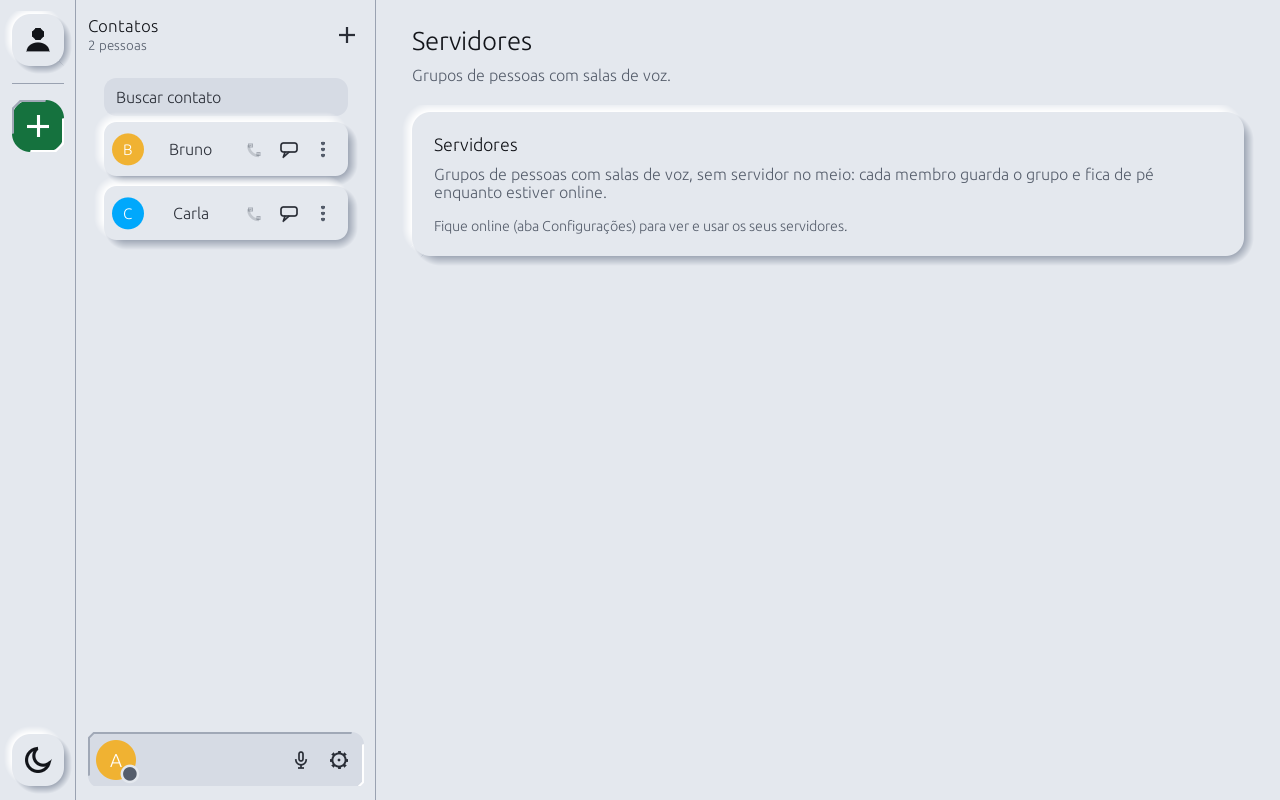
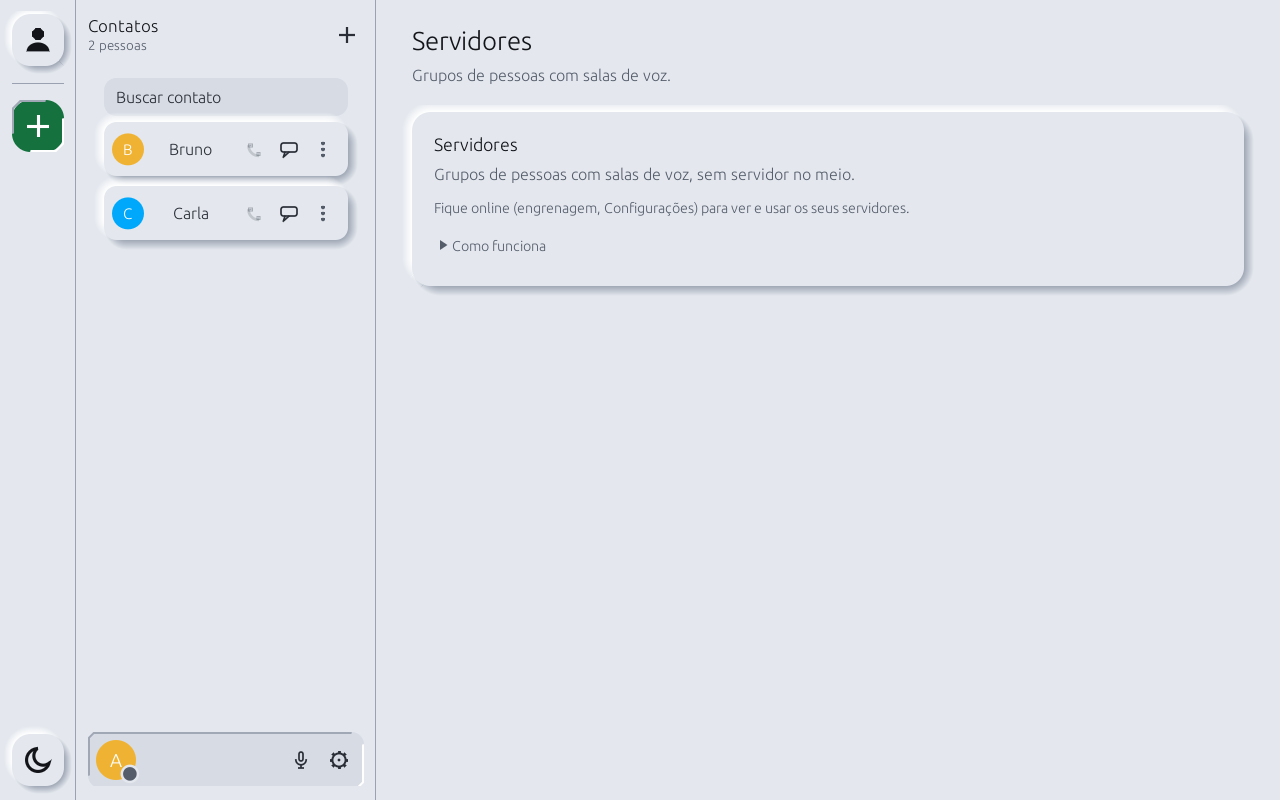
GUI: rádio, caixa e slider visíveis, botão desligado igual nos dois temas, textos vazios enxutos
Auditoria das telas em docs/telas: o rádio desmarcado e o checkbox de Dispositivos sumiam na base, o slider não tinha trilho, o botão cheio desligado quase não apagava no escuro, e as telas vazias de Chamada e Servidores tinham parágrafos fixos (um citava o ícone errado). Helpers radio_pick e slider em theme.rs, disabled_fill_with com teste, barra de rolagem mais fina e afastada, PNGs regenerados.

Changed region(s): [[0.3438, 0.2188, 1.0, 0.375], [0.75, 0.2188, 0.7812, 0.25]]

diff --git a/examples/gui/theme.rs b/examples/gui/theme.rs
@@ -187,7 +187,11 @@ pub(crate) fn apply(ctx: &egui::Context) {
         s.spacing.slider_width = 260.0;
         s.spacing.combo_width = 280.0;
         s.spacing.text_edit_width = 320.0;
-        s.spacing.scroll.bar_width = 10.0;
+        // Barra mais fina e afastada do cartão: com 10 px colada nele (inner 4, outer 0) ela parecia parte da moldura. A
+        // cor da alça é a do texto (o egui não deixa trocar), então o contraste fica alto de propósito.
+        s.spacing.scroll.bar_width = 8.0;
+        s.spacing.scroll.bar_inner_margin = 8.0;
+        s.spacing.scroll.bar_outer_margin = 4.0;
         s.spacing.scroll.floating = false;
     });
 }
@@ -279,6 +283,13 @@ fn soft_button(ui: &mut Ui, enabled: bool, text: RichText, fill: Color32, min: e
     reply
 }
 
+/// Preenchimento de um botão desligado: a base com só um sopro da cor da ação. `gamma_multiply` mexia na opacidade, e
+/// por isso o mesmo botão ficava quase vivo sobre a base escura e apagado sobre a clara; misturar com a base apaga igual
+/// nos dois temas, e o texto `muted` segue legível (≥ 3:1, ver o teste).
+fn disabled_fill_with(p: &Palette, fill: Color32) -> Color32 {
+    if fill == p.bg { fill } else { p.bg.lerp_to_gamma(fill, 0.2) }
+}
+
 /// A superfície do botão macio (relevo, hover, apertado, desligado) sem o conteúdo. Devolve a resposta, o
 /// retângulo e se está apertado, para quem desenha o rótulo ou o ícone por cima.
 fn soft_surface(ui: &mut Ui, enabled: bool, fill: Color32, size: egui::Vec2) -> (egui::Response, Rect, bool) {
@@ -290,7 +301,7 @@ fn soft_surface(ui: &mut Ui, enabled: bool, fill: Color32, size: egui::Vec2) -> 
     let pressed = enabled && reply.is_pointer_button_down_on();
     if ui.is_rect_visible(rect) {
         let painter = ui.painter();
-        let surface = if !enabled { fill.gamma_multiply(0.55) } else if reply.hovered() && !pressed { hovered_fill(fill) } else { fill };
+        let surface = if !enabled { disabled_fill_with(pal(), fill) } else if reply.hovered() && !pressed { hovered_fill(fill) } else { fill };
         if !enabled {
             painter.rect_filled(rect, CornerRadius::same(R_BUTTON), surface);
         } else if pressed {
@@ -313,7 +324,7 @@ pub(crate) fn big_button(ui: &mut Ui, text: &str, fill: Color32) -> egui::Respon
 pub(crate) fn details(ui: &mut Ui, title: &str, text: &str) {
     // O id vem do texto: dois blocos "Como funciona" no mesmo nível (um por cartão) compartilhariam o do título e
     // abririam e fechariam juntos.
-    egui::CollapsingHeader::new(RichText::new(title).size(13.0).color(pal().muted)).id_salt(text).icon(chevron).show(ui, |ui| note(ui, text));
+    egui::CollapsingHeader::new(RichText::new(title).size(14.0).color(pal().muted)).id_salt(text).icon(chevron).show(ui, |ui| note(ui, text));
 }
 
 /// Seta do bloco recolhido, desenhada: aponta para a direita fechada e gira para baixo ao abrir (`openness` de 0 a 1).
@@ -324,7 +335,7 @@ fn chevron(ui: &mut Ui, openness: f32, response: &egui::Response) {
     let a = openness * std::f32::consts::FRAC_PI_2;
     let (sin, cos) = a.sin_cos();
     let turn = |x: f32, y: f32| c + vec2(x * cos - y * sin, x * sin + y * cos);
-    ui.painter().add(egui::Shape::convex_polygon(vec![turn(-2.5, -4.0), turn(3.5, 0.0), turn(-2.5, 4.0)], ink, Stroke::NONE));
+    ui.painter().add(egui::Shape::convex_polygon(vec![turn(-3.0, -5.0), turn(4.5, 0.0), turn(-3.0, 5.0)], ink, Stroke::NONE));
 }
 
 /// Marca discreta ao lado de um campo que só vale quando o programa abrir de novo (relógio, com a explicação no
@@ -397,23 +408,43 @@ pub(crate) fn phone_button(ui: &mut Ui, enabled: bool, tip: &str, fill: Color32)
     reply.on_hover_text(tip)
 }
 
-/// Caixa de marcar com a caixinha visível: no tema neomórfico o `checkbox` padrão some no fundo (mesma cor
-/// base, sem contorno). Aqui a caixinha fica afundada (`pal().deep`) e com contorno `pal().muted`.
+/// Controles do egui (caixa, rádio, trilho do slider) com o corpo afundado e o contorno visível: no tema neomórfico o
+/// padrão some no fundo (mesma cor base, sem contorno). O corpo fica afundado (`pal().deep`) e o contorno `pal().muted`;
+/// sem isso uma opção de rádio desmarcada não tem círculo e o estado só aparece num ponto.
+fn sunken_controls<R>(ui: &mut Ui, add: impl FnOnce(&mut Ui) -> R) -> R {
+    ui.scope(|ui| {
+        let w = &mut ui.visuals_mut().widgets;
+        w.inactive.bg_fill = pal().deep;
+        w.inactive.bg_stroke = Stroke::new(1.5_f32, pal().muted);
+        w.hovered.bg_fill = pal().deep;
+        w.hovered.bg_stroke = Stroke::new(1.5_f32, pal().text);
+        add(ui)
+    })
+    .inner
+}
+
+/// Extensões de `Ui` para os controles de marcar e arrastar com a aparência do tema. As telas usam estas, não as do
+/// egui direto (`checkbox`, `radio_value`, `Slider`), que somem no fundo.
 pub(crate) trait CheckExt {
+    /// Caixa de marcar com a caixinha visível.
     fn check(&mut self, checked: &mut bool, text: impl Into<egui::WidgetText>) -> egui::Response;
+    /// Opção de rádio com o círculo visível, marcada quando `current == alt`.
+    fn radio_pick<V: PartialEq>(&mut self, current: &mut V, alt: V, text: impl Into<egui::WidgetText>) -> egui::Response;
+    /// Slider com o trilho afundado e preenchido com o acento até o botão: o trilho mostra o intervalo e a posição.
+    fn slider(&mut self, slider: egui::Slider<'_>) -> egui::Response;
 }
 
 impl CheckExt for egui::Ui {
     fn check(&mut self, checked: &mut bool, text: impl Into<egui::WidgetText>) -> egui::Response {
-        self.scope(|ui| {
-            let w = &mut ui.visuals_mut().widgets;
-            w.inactive.bg_fill = pal().deep;
-            w.inactive.bg_stroke = Stroke::new(1.5_f32, pal().muted);
-            w.hovered.bg_fill = pal().deep;
-            w.hovered.bg_stroke = Stroke::new(1.5_f32, pal().text);
-            ui.checkbox(checked, text)
-        })
-        .inner
+        sunken_controls(self, |ui| ui.checkbox(checked, text))
+    }
+
+    fn radio_pick<V: PartialEq>(&mut self, current: &mut V, alt: V, text: impl Into<egui::WidgetText>) -> egui::Response {
+        sunken_controls(self, |ui| ui.radio_value(current, alt, text))
+    }
+
+    fn slider(&mut self, slider: egui::Slider<'_>) -> egui::Response {
+        sunken_controls(self, |ui| ui.add(slider.trailing_fill(true)))
     }
 }
 
@@ -1433,6 +1464,20 @@ mod tests {
                     assert!(r >= 4.5, "tema {name}: branco sobre {what} tem contraste {r:.2} (< 4,5)");
                 }
             }
+        }
+    }
+
+    #[test]
+    fn disabled_filled_buttons_fade_into_the_base_in_both_themes() {
+        for (name, p) in [("escuro", &DARK_PALETTE), ("claro", &LIGHT_PALETTE)] {
+            for (what, fill) in [("acento", BLURPLE), ("verde", p.green), ("vermelho", p.red)] {
+                let off = disabled_fill_with(p, fill);
+                let r = contrast(p.muted, off);
+                assert!(r >= 3.0, "tema {name}: texto do botão {what} desligado tem contraste {r:.2} (< 3)");
+                // Perto da base (o botão não parece ativo) e longe da cor cheia.
+                assert!(contrast(off, p.bg) < contrast(fill, p.bg), "tema {name}: botão {what} desligado não apagou");
+            }
+            assert_eq!(disabled_fill_with(p, p.bg), p.bg);
         }
     }
 

diff --git a/examples/gui/media.rs b/examples/gui/media.rs
@@ -26,11 +26,11 @@ impl App {
                 ui.horizontal(|ui| {
                     ui.label("Priorizar:");
                     let mut changed = ui
-                        .radio_value(&mut self.form.screen_sharp, false, "Fluidez")
+                        .radio_pick(&mut self.form.screen_sharp, false, "Fluidez")
                         .on_hover_text("Mais quadros por segundo (o dobro): bom para jogo e vídeo. A imagem fica um pouco mais grosseira quando se mexe.")
                         .changed();
                     changed |= ui
-                        .radio_value(&mut self.form.screen_sharp, true, "Nitidez")
+                        .radio_pick(&mut self.form.screen_sharp, true, "Nitidez")
                         .on_hover_text("Metade dos quadros por segundo, cada um com o dobro de bits: bom para texto, código e slides. O movimento fica menos suave.")
                         .changed();
                     if changed {
@@ -67,7 +67,7 @@ impl App {
         split(ui, |ui, side| {
             if side == 0 {
                 card(ui, "Dispositivos", "", |ui| {
-                    ui.add_enabled(offline, egui::Checkbox::new(&mut self.form.use_audio, "Usar microfone e alto-falante"))
+                    ui.add_enabled_ui(offline, |ui| ui.check(&mut self.form.use_audio, "Usar microfone e alto-falante")).inner
                         .on_hover_text("Desmarcado, cada lado manda só um tom de teste. Vale ao ficar online.");
                     #[cfg(feature = "audio")]
                     devices_ui(ui, &mut self.form, &mut self.devs);
@@ -78,9 +78,9 @@ impl App {
                         a.muted.store(muted, Ordering::Relaxed);
                     }
                     ui.label("Volume do alto-falante");
-                    ui.add(egui::Slider::new(&mut p.volume, AudioPrefs::VOLUME));
+                    ui.slider(egui::Slider::new(&mut p.volume, AudioPrefs::VOLUME));
                     ui.label("Ganho do microfone");
-                    ui.add(egui::Slider::new(&mut p.mic_gain, AudioPrefs::MIC_GAIN));
+                    ui.slider(egui::Slider::new(&mut p.mic_gain, AudioPrefs::MIC_GAIN));
                     ui.label("Nível do microfone");
                     // Medidor: a linha marca o limiar de sensibilidade; o texto diz se a voz passa dele.
                     let meter = ui.add(
@@ -94,7 +94,7 @@ impl App {
                     let x = meter.rect.left() + meter.rect.width() * voice_meter(p.gate_db);
                     ui.painter().vline(x, meter.rect.y_range(), egui::Stroke::new(2.5_f32, pal().strong));
                     ui.label("Sensibilidade (limiar da voz)");
-                    ui.add(egui::Slider::new(&mut p.gate_db, AudioPrefs::GATE_DB).suffix(" dB"))
+                    ui.slider(egui::Slider::new(&mut p.gate_db, AudioPrefs::GATE_DB).suffix(" dB"))
                         .on_hover_text("A linha laranja no medidor. Quanto mais para a esquerda, mais sensível: sons baixos já contam como voz.");
                     if in_call || testing {
                         note(ui, "Fale e veja o medidor: a linha laranja deve ficar abaixo da sua voz e acima do ruído.");
@@ -128,7 +128,7 @@ impl App {
                         .on_hover_text("Quando o microfone fica abaixo do limiar, o som enviado é reduzido. Ajuste a sensibilidade até a linha ficar logo acima do ruído.");
                     ui.add_enabled_ui(p.gate, |ui| {
                         ui.label("Redução do ruído");
-                        ui.add(egui::Slider::new(&mut p.gate_depth_db, AudioPrefs::GATE_DEPTH_DB).suffix(" dB"));
+                        ui.slider(egui::Slider::new(&mut p.gate_depth_db, AudioPrefs::GATE_DEPTH_DB).suffix(" dB"));
                     });
                     ui.check(&mut p.high_pass, "Cortar graves (ventilador, mesa, sopro)");
                     ui.check(&mut p.agc, "Volume automático (nivela voz baixa e alta)")

diff --git a/examples/gui/servers.rs b/examples/gui/servers.rs
@@ -87,8 +87,9 @@ impl App {
     pub(crate) fn servers_tab(&mut self, ui: &mut egui::Ui, offline: bool) {
         let hub = self.shared.servers.lock_unpoisoned().clone();
         let Some(hub) = hub.filter(|_| !offline) else {
-            card(ui, "Servidores", "Grupos de pessoas com salas de voz, sem servidor no meio: cada membro guarda o grupo e fica de pé enquanto estiver online.", |ui| {
-                note(ui, "Fique online (aba Configurações) para ver e usar os seus servidores.");
+            card(ui, "Servidores", "Grupos de pessoas com salas de voz, sem servidor no meio.", |ui| {
+                note(ui, "Fique online (engrenagem, Configurações) para ver e usar os seus servidores.");
+                details(ui, "Como funciona", "Cada membro guarda o grupo e o mantém de pé enquanto estiver online; não há servidor que o hospede.");
             });
             return;
         };

diff --git a/examples/gui/call.rs b/examples/gui/call.rs
@@ -37,9 +37,7 @@ impl App {
                 return;
             }
             self.dial_card(ui, offline, busy);
-            card(ui, "Nenhuma chamada em andamento", "Quando você ligar ou atender, ela aparece aqui, com a tela compartilhada.", |ui| {
-                note(ui, "Para ligar a um contato, use o botão de ligar ao lado dele na lista de contatos (ícone de pessoa, no trilho da esquerda).");
-            });
+            card(ui, "Nenhuma chamada em andamento", "Ligue pelo telefone ao lado do contato; a chamada e a tela compartilhada aparecem aqui.", |_| {});
             return;
         }
         let incoming = *self.shared.incoming.lock_unpoisoned();

diff --git a/docs/GUI.md b/docs/GUI.md
@@ -108,7 +108,7 @@ As seções da janela (trilho, salas, centro, membros) são separadas por uma li
 
 **Foco do teclado.** Todo controle desenhado à mão (três pontos, lixeira, sair, desligar, `+`, X, lupa, monitor, cartão fantasma, alternador de membros, botões macios) mostra o mesmo aro, `focus_ring` em `theme.rs`, na cor `Palette::focus`: o acento claro no escuro e o acento no claro, ambos com mais de 3:1 sobre a base, o fundo afundado e o hover (teste em `theme.rs`). Parar de assistir tem ícone próprio, o monitor riscado (`stop_watching_button`), e cada saída tem o seu ícone: fone vermelho para desligar e recusar, porta para sair da sala, X para fechar.
 
-**Botões.** Todo botão tem nome acessível (`widget_info`), o de texto e o de ícone, igual à dica; testes em `theme.rs` conferem os dois. Os ícones sem moldura nascem de um helper só (`bare_button`): nome, dica, placa suave `Palette::hover` sob o ponteiro, afundo de 1 px ao apertar, aro de foco e mãozinha vêm juntos, então um botão novo não esquece nada. O botão macio desligado continua alcançável pelo Tab e mostra o motivo no hover (`why_off`); o de ícone dentro de um `Ui` desligado do egui não recebe Tab (limite do egui), e o motivo fica no hover. O texto do botão neutro (fundo da base: *Cancelar*, *Recusar*, *Desbloquear*, *Ficar offline*) usa a cor do texto do tema, e não branco, que sumia no tema claro (`ink_on`); branco fica só sobre o acento e os semânticos. Verde é só para ligar, atender e ficar online; as demais ações principais (*Criar*, *Aceitar*, *Entrar*, *Copiar*) usam o acento. Desligar e recusar são um botão vermelho em relevo com o fone branco, do tamanho do de atender: o vermelho do tema não passa de 3:1 sobre a base escura como ícone solto. A porta com seta sai da sala ou do servidor, e o X só fecha (conversa, tela cheia). Não há botão cru do egui na janela.
+**Botões.** Todo botão tem nome acessível (`widget_info`), o de texto e o de ícone, igual à dica; testes em `theme.rs` conferem os dois. Os ícones sem moldura nascem de um helper só (`bare_button`): nome, dica, placa suave `Palette::hover` sob o ponteiro, afundo de 1 px ao apertar, aro de foco e mãozinha vêm juntos, então um botão novo não esquece nada. O botão macio desligado continua alcançável pelo Tab e mostra o motivo no hover (`why_off`); o de ícone dentro de um `Ui` desligado do egui não recebe Tab (limite do egui), e o motivo fica no hover. O texto do botão neutro (fundo da base: *Cancelar*, *Recusar*, *Desbloquear*, *Ficar offline*) usa a cor do texto do tema, e não branco, que sumia no tema claro (`ink_on`); branco fica só sobre o acento e os semânticos. Verde é só para ligar, atender e ficar online; as demais ações principais (*Criar*, *Aceitar*, *Entrar*, *Copiar*) usam o acento. Desligar e recusar são um botão vermelho em relevo com o fone branco, do tamanho do de atender: o vermelho do tema não passa de 3:1 sobre a base escura como ícone solto. A porta com seta sai da sala ou do servidor, e o X só fecha (conversa, tela cheia). O botão cheio desligado (*Testar o microfone* offline, o telefone de ligar offline) mistura a cor da ação com a base (`disabled_fill_with`) e usa o texto `muted`, apagando igual nos dois temas; antes ele só diminuía a opacidade e ficava quase vivo no escuro. Não há botão cru do egui na janela. Caixa de marcar, opção de rádio e slider também não são os do egui: vêm de `check`, `radio_pick` e `slider` (`CheckExt`, `theme.rs`), com o corpo afundado e o contorno visível (o do egui some na base) e, no slider, o trilho preenchido com o acento até o botão. O bloco *Como funciona* usa 14 px.
 
 **Ícones da sala.** O alto-falante (salas e subseção), o fone (ligar e atender no cartão de chamada e na subseção), a lupa (tela cheia) e o X (fechar o convite) são desenhados com o `painter` (`speaker_icon`, `phone_icon`, `magnifier_icon`, `close_button`), não emojis. O cartão fantasma com `+` (nova sala, convidar) usa o `muted` cheio, com mais de 3:1 sobre a base nos dois temas (teste em `theme.rs`). No convite, o texto que explica o envio fica no hover do título e *Gerar o convite como texto*, que é raro, fica no menu de três pontos; o aviso do IP continua visível. Os contatos (ligar, bate-papo, aviso de pendente), a engrenagem, o microfone e o menu das páginas também são ícones desenhados (`glyph_button`, `menu_item`; `chat_icon`, `gear_icon`, `mic_icon`, `monitor_icon`, `log_icon`, `alert_icon`); a busca de contatos e o desbloquear não levam mais glifo da fonte.
 
